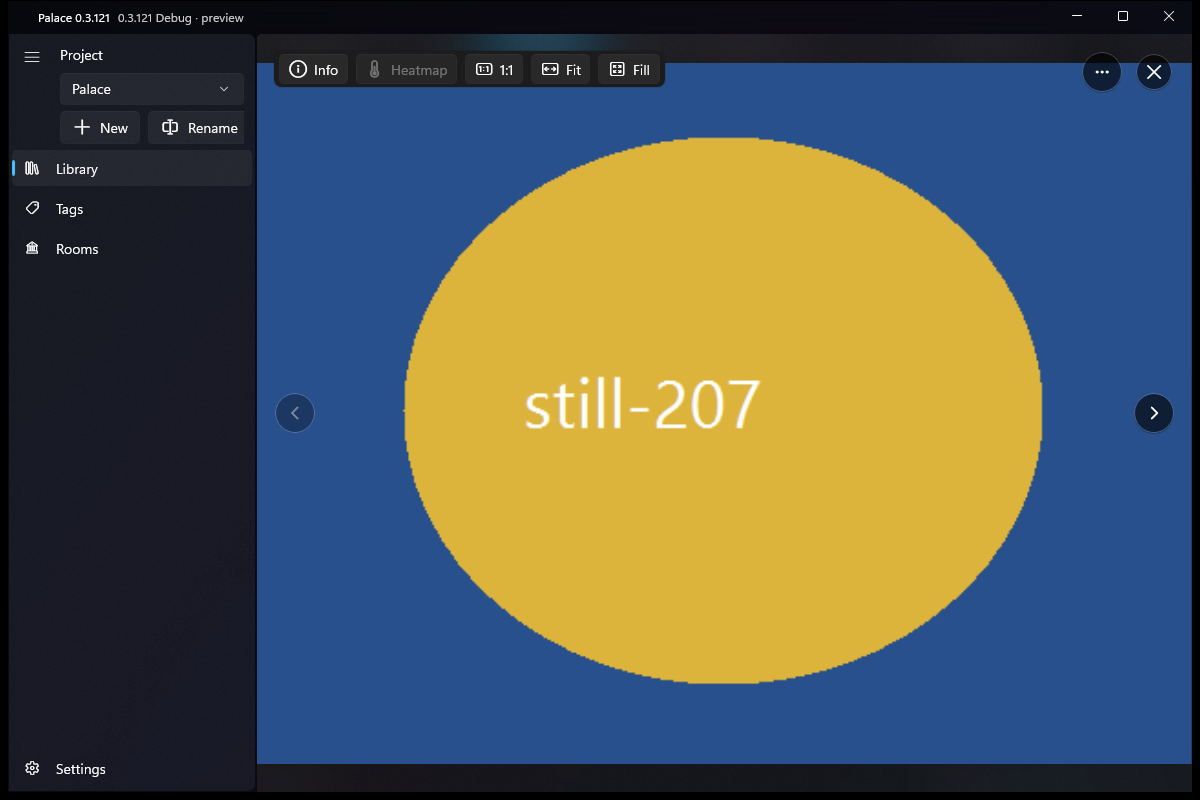
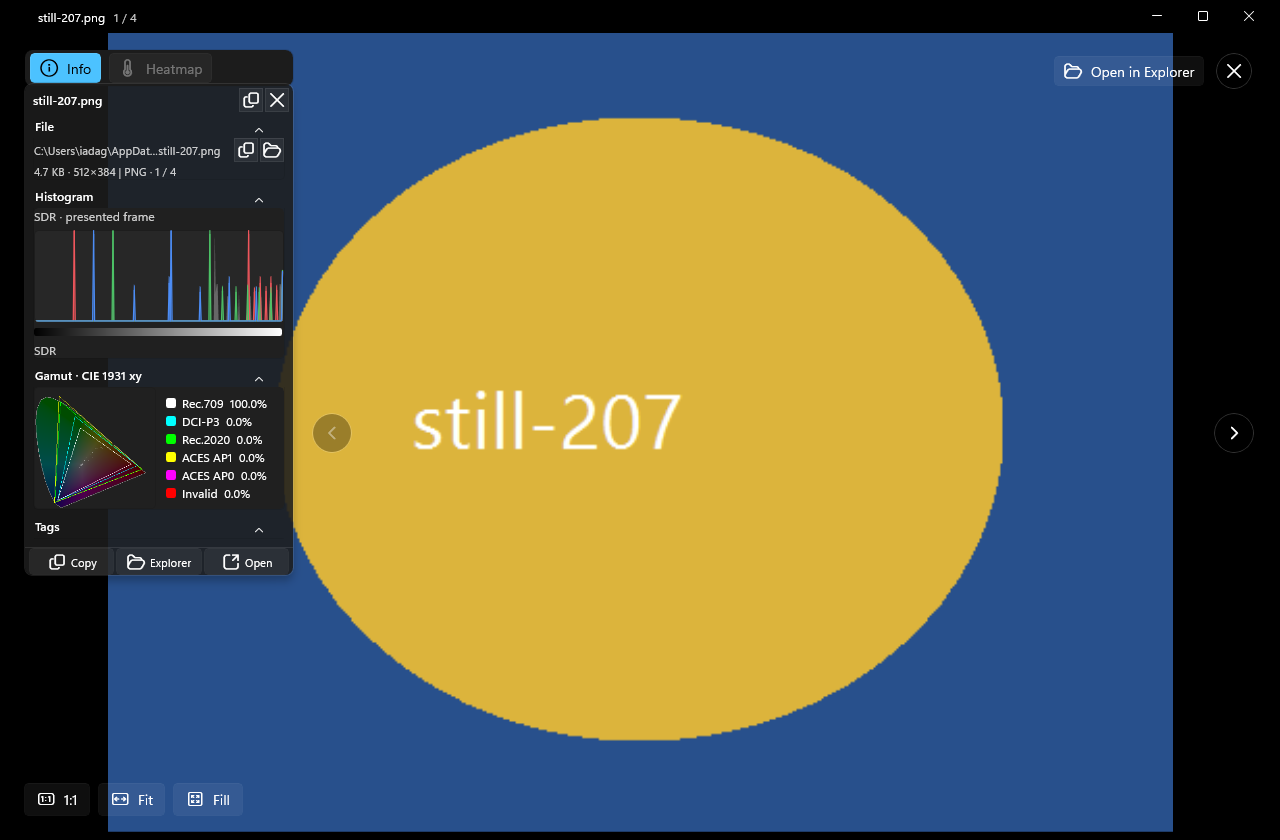
media(pr207): fix GalleryWindow HWND — separate GrdGalleryWindow shots
06/09/12 recaptured via Open in new window; refuse main/inline. Honest REPORT.

diff --git a/REPORT.md b/REPORT.md
@@ -3,7 +3,7 @@
 | Field | Value |
 |---|---|
 | PR | https://github.com/sacb0y/Palace/pull/207 |
-| Tip | `1a8f72322051830cfe162018e8c73a2988666383` |
+| Tip (Fenrir build) | `1a8f72322051830cfe162018e8c73a2988666383` |
 | Package | PalaceOrganizeTest-5E1F `0.3.121.0` |
 | ProductVersion | `0.3.121+1a8f72322051830cfe162018e8c73a2988666383` |
 | Host | FenrirDesktop (no DPI change) |
@@ -12,29 +12,38 @@
 | Gate | n=4 (Image/Gif/Video/Model3D) — PASS |
 | Capture | HWND PrintWindow vs 5E1F PID |
 
-## Verdict: **PASS** (with notes)
+## Verdict: **PASS**
 
 | Shot | Result | Notes |
 |---|---|---|
 | 01-settings-index-3d-off.png | PASS | Formats expanded; 3D toggle Off visible |
 | 02-settings-index-3d-on.png | PASS | 3D toggle On visible |
 | 03-library-mosaic-badges.png | PASS | Model3D cube + video + GIF badges beside still |
-| 04-library-overlay-3d-placeholder.png | PASS | model-207.glb · 3D preview placeholder |
+| 04-library-overlay-3d-placeholder.png | PASS | model-207.glb · Library overlay 3D preview placeholder |
 | 05-tags-overlay.png | PASS | Tags nav (tag editor page) |
-| 06-gallery-window.png | PASS | Inline Library viewer (no separate Gallery HWND on this tip) |
-| 07-library-still.png | PASS | still-207.png in Library viewer |
-| 08-tags-still.png | PASS* | Still + Info panel (Tags section in Info); not Tags-nav media browser |
-| 09-gallery-still.png | PASS | Same inline viewer as 06/07 |
-| 10-library-video.png | PASS | video-207.mp4 + transport controls |
-| 11-tags-video.png | PASS* | Video + Info/Tags panel; not Tags-nav media browser |
-| 12-gallery-video.png | PASS | video-207.mp4 + controls (inline viewer) |
+| 06-gallery-window.png | PASS | **Separate GalleryWindow** HWND + `GrdGalleryWindow`; title `still-207.png` (not main) |
+| 07-library-still.png | PASS | still-207 in Library overlay viewer |
+| 08-tags-still.png | PASS* | Still + Info panel; Tags nav is editor not mosaic |
+| 09-gallery-still.png | PASS | **Separate GalleryWindow** still-207.png |
+| 10-library-video.png | PASS | video-207 Library overlay + transport |
+| 11-tags-video.png | PASS* | Video + Info panel (not Tags-nav mosaic) |
+| 12-gallery-video.png | PASS | **Separate GalleryWindow** video-207.mp4 + controls |
 
-\* Tags route is a tag editor, not an asset mosaic. Still/video “Tags” evidence is the viewer Info panel Tags section.
+\* Tags route is a tag editor. Still/video “Tags” evidence uses viewer Info Tags section.
+
+### GalleryWindow correction
+Earlier pack claimed PASS for 06/09/12 on the **inline Library overlay** (same HWND as main). That fails Wimbly’s separate-GalleryWindow requirement. Recaptured via mosaic **More → Open in new window**, gated on `hwnd ≠ main` and UIA `GrdGalleryWindow`.
+
+Captions:
+- 06: Separate GalleryWindow still-207.png HWND=44383692 title=[still-207.png] tip=1a8f72322051830cfe162018e8c73a2988666383 GrdGalleryWindow=YES separate-from-main=18484308.
+- 09: Separate GalleryWindow still-207.png HWND=44383692 title=[still-207.png] tip=1a8f72322051830cfe162018e8c73a2988666383 GrdGalleryWindow=YES separate-from-main=18484308.
+- 12: Separate GalleryWindow video-207.mp4 + controls HWND=21902736 title=[video-207.mp4] tip=1a8f72322051830cfe162018e8c73a2988666383 GrdGalleryWindow=YES separate-from-main=18484308.
 
 ## Steps
-1. Seed SourceFolder → SFW synthetic (still/gif/video/glb) under temp only
-2. Settings → Library → expand Formats header button → Index 3D OFF/ON
-3. Scan; sqlite gate n=4 + Model3D=1
-4. HWND Library mosaic / 3D placeholder / still / video (+ Info Tags panel)
+1. Seed SourceFolder → SFW synthetic (still/gif/video/glb)
+2. Settings → Library → Formats → Index 3D OFF/ON
+3. Scan; sqlite gate n=4 + Model3D
+4. Library mosaic / overlay still+video / 3D placeholder
+5. GalleryWindow via Open in new window (still + video)
 
 Do not merge.
